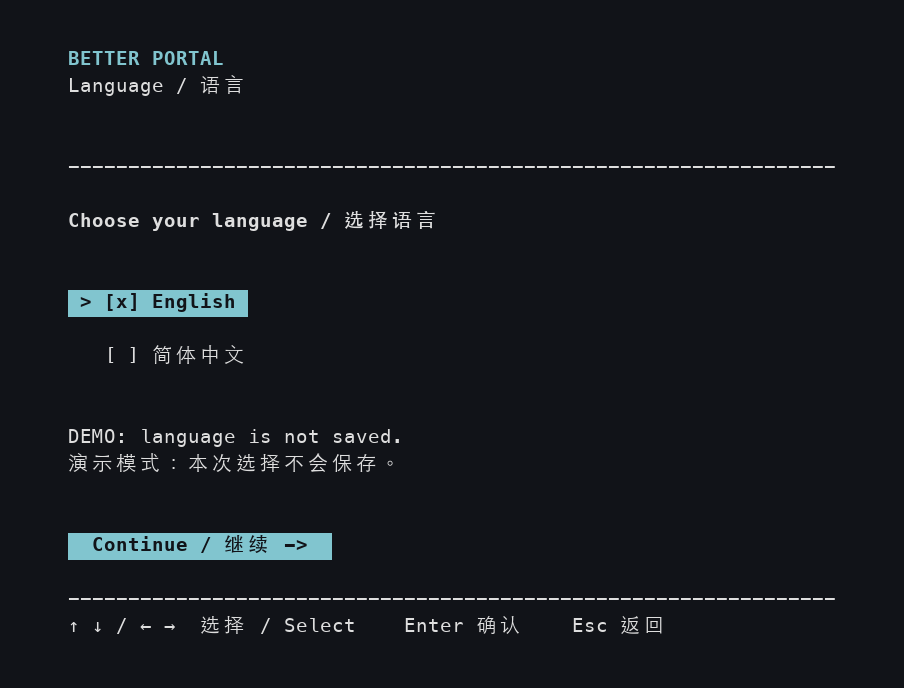
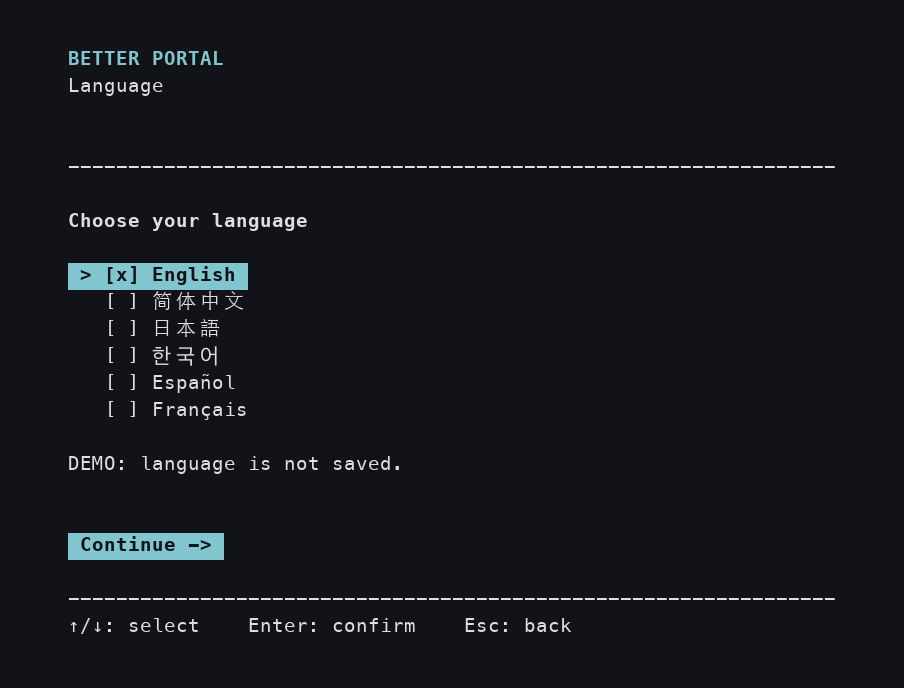
Document all six languages with terminal previews
Update both user guides for the language picker and two-row Settings panel. Refresh the picker and live-switch recording, and show the device screen in Japanese, Korean, Spanish and French.

diff --git a/README.md b/README.md
@@ -6,7 +6,7 @@ A guided Mac app for choosing a higher bitrate target for PS5 Remote Play on you
 
 > **Built on [atameric/ps5-portal-high-bitrate](https://github.com/atameric/ps5-portal-high-bitrate).** Shout-out to [@atameric](https://github.com/atameric) for the original idea and implementation. Better Portal builds on that work with a guided terminal interface. The original MIT license and contributor history are preserved.
 
-Choose English or Simplified Chinese, enter your device addresses, choose a bitrate, and connect when the app says **READY**. Saved settings, a two-minute countdown and clear results guide you through each session.
+Choose your language, enter your device addresses, choose a bitrate, and connect when the app says **READY**. Saved settings, a two-minute countdown and clear results guide you through each session.
 
 [Get started](#get-started) · [See the four steps](#your-first-session) · [Questions and fixes](#questions-and-fixes)
 
@@ -49,15 +49,19 @@ The images below show the actual app in demo mode, using example addresses and s
 
 ### Choose your language
 
-On your first launch, choose **English** or **简体中文** with the arrow keys and press **Enter**. Your choice is saved immediately and used on your next launch.
+On your first launch, choose **English**, **简体中文**, **日本語**, **한국어**, **Español** or **Français** with **↑ / ↓**. The picker previews your language as you move. Press **Enter** to save your choice for this session and future launches.
 
-![Language picker offering English and Simplified Chinese before setup](docs/images/language.png)
+![First-launch picker with all six languages shown by their native names](docs/images/language.png)
 
-To change languages during setup, press **S** to open **Settings**. Use **← / →** to switch between English and Simplified Chinese. The interface changes immediately and saves your choice. Press **Enter**, **Esc** or **S** to return to the same screen with your inputs intact.
+To change languages during setup, press **S** to open **Settings**. Use the **arrow keys** to move through the two rows of languages. The interface changes immediately and saves your choice. Press **Enter**, **Esc** or **S** to return to the same screen with your inputs intact.
 
-![Settings switching the interface from English to Chinese immediately, then returning to the same step](docs/images/settings.gif)
+![Settings switching instantly through all six languages while preserving the current step and inputs](docs/images/settings.gif)
 
-During connection, the countdown continues with Settings open. **Q / Ctrl+C** still stops the attempt; the panel closes automatically when network restoration starts. Demo mode lets you try both languages but does not save your choice.
+During connection, the countdown continues with Settings open. **Q / Ctrl+C** still stops the attempt; the panel closes automatically when network restoration starts. Demo mode lets you try every language but does not save your choice.
+
+The device fields, connection states, results and recovery guidance are translated too.
+
+![The device screen in Japanese, Korean, Spanish and French](docs/images/languages.gif)
 
 ### 1. Prepare your devices
 
@@ -115,7 +119,7 @@ A value such as **63.106 Mbps** is the target reported by PS5, not a measurement
 
 **How do I switch languages?**
 
-Press **S** to open **Settings**, then use **← / →**. Changes apply immediately and are remembered for next time. **Esc** closes Settings; it does not undo the change. Your device addresses, bitrate choice and current step stay the same.
+Press **S** to open **Settings**, then use the **arrow keys**. Changes apply immediately and are remembered for next time. **Esc** closes Settings; it does not undo the change. Your device addresses, bitrate choice and current step stay the same.
 
 **Do I need to run it again after disconnecting or turning off Portal?**
 

diff --git a/README.zh-CN.md b/README.zh-CN.md
@@ -47,15 +47,19 @@ cd better-portal
 
 ### 先选择语言
 
-首次打开时，用方向键选择 **简体中文** 或 **English**，按 **Enter** 确认。选择会立即保存，下次直接使用上次的语言。
+首次打开时，用 **↑ / ↓** 选择 **简体中文、English、日本語、한국어、Español 或 Français**。移动选项时可以预览对应语言，按 **Enter** 确认并保存，下次直接使用上次的选择。
 
-![首次启动时选择 English 或简体中文](docs/images/language.png)
+![首次启动时，以各自原生名称显示六种语言](docs/images/language.png)
 
-使用过程中，按 **S** 打开**设置**，用 **← / →** 切换语言。界面会立即刷新并自动保存选择，无需重新启动。按 **Enter、Esc 或 S** 关闭设置，回到原来的页面，已填写的内容会保留。
+使用过程中，按 **S** 打开**设置**，用**方向键**在两行语言选项中切换。界面会立即刷新并自动保存选择，无需重新启动。按 **Enter、Esc 或 S** 关闭设置，回到原来的页面，已填写的内容会保留。
 
-![在设置中即时切换中英文，然后回到原来的步骤](docs/images/settings.gif)
+![通过设置即时切换六种语言，保留当前步骤和已填写的内容](docs/images/settings.gif)
 
-连接期间打开设置，倒计时会继续运行，**Q / Ctrl+C** 仍可中止本次连接。开始恢复网络时，设置面板会自动关闭。演示模式中的语言选择不会保存。
+连接期间打开设置，倒计时会继续运行，**Q / Ctrl+C** 仍可中止本次连接。开始恢复网络时，设置面板会自动关闭。演示模式可以体验全部语言，但不会保存选择。
+
+设备填写、连接状态、结果和恢复指引也都有对应翻译。
+
+![日语、韩语、西班牙语和法语的设备设置页](docs/images/languages.gif)
 
 ### 1. 准备设备
 
